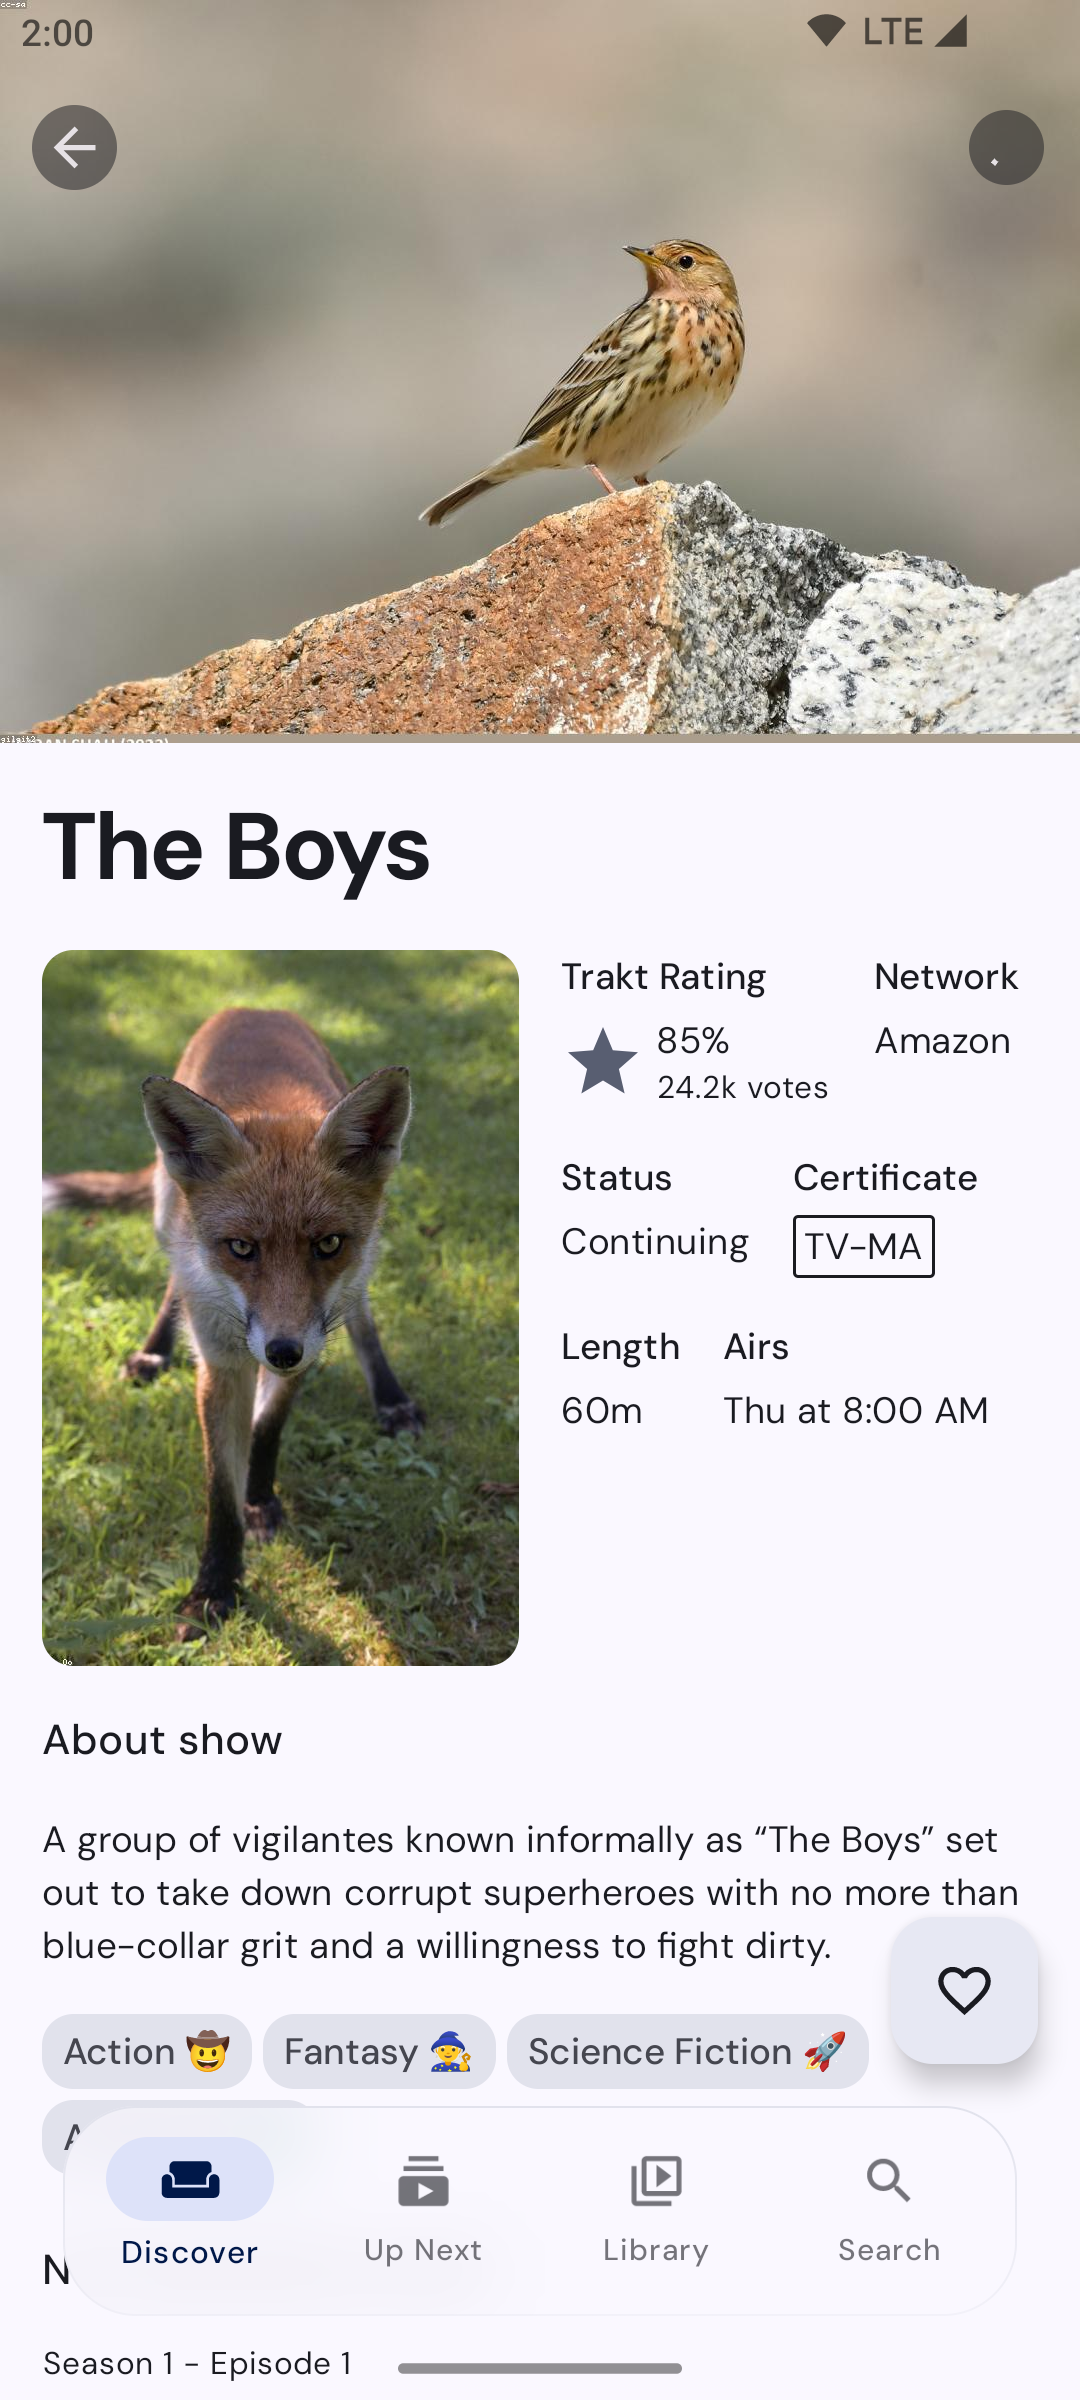
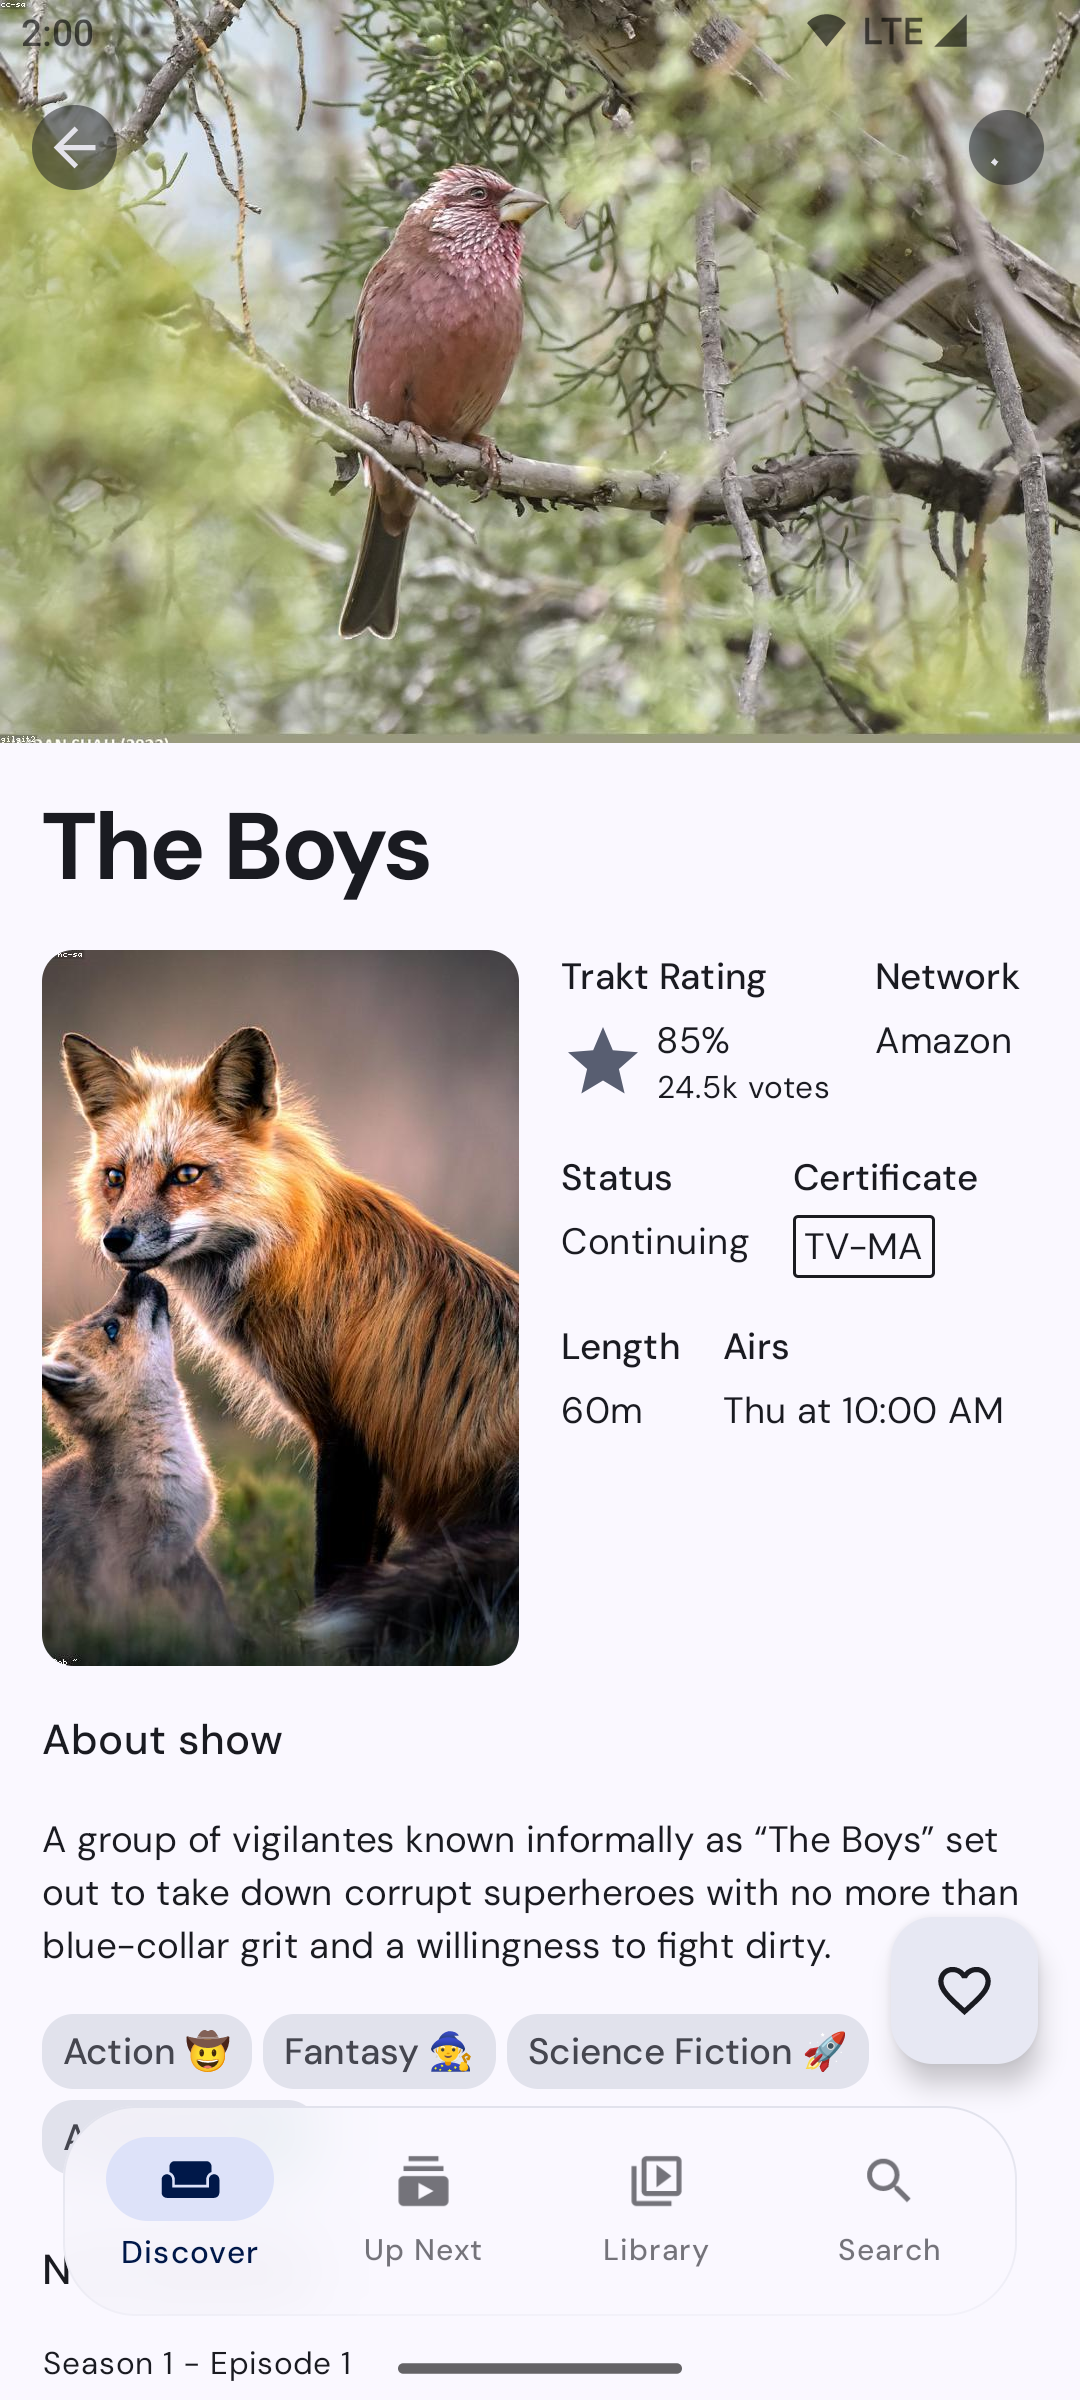
Update screenshots

diff --git a/fastlane/screenshots/screenshots.html b/fastlane/screenshots/screenshots.html
@@ -101,33 +101,55 @@
       <table>
         <tr>
           <th colspan="5">
+            <a id="en-US-iPhone 15 Pro Max" class="deviceName" href="#en-US-iPhone 15 Pro Max">iPhone 15 Pro Max</a>
+          </th>
+        </tr>
+        <tr>
+          <td>
+            <a href="./en-US/iPhone 15 Pro Max-1_Home.png" target="_blank" class="screenshotLink">
+              <img class="screenshot" src="./en-US/iPhone 15 Pro Max-1_Home.png" style="width: 100%;" alt="en-US iPhone 15 Pro Max" data-tab="1" data-counter="1">
+            </a>
+          </td>
+          <td>
+            <a href="./en-US/iPhone 15 Pro Max-2_ShowDetails.png" target="_blank" class="screenshotLink">
+              <img class="screenshot" src="./en-US/iPhone 15 Pro Max-2_ShowDetails.png" style="width: 100%;" alt="en-US iPhone 15 Pro Max" data-tab="1" data-counter="2">
+            </a>
+          </td>
+          <td>
+            <a href="./en-US/iPhone 15 Pro Max-3_UpNext.png" target="_blank" class="screenshotLink">
+              <img class="screenshot" src="./en-US/iPhone 15 Pro Max-3_UpNext.png" style="width: 100%;" alt="en-US iPhone 15 Pro Max" data-tab="1" data-counter="3">
+            </a>
+          </td>
+          <td>
+            <a href="./en-US/iPhone 15 Pro Max-4_Library.png" target="_blank" class="screenshotLink">
+              <img class="screenshot" src="./en-US/iPhone 15 Pro Max-4_Library.png" style="width: 100%;" alt="en-US iPhone 15 Pro Max" data-tab="1" data-counter="4">
+            </a>
+          </td>
+          <td>
+            <a href="./en-US/iPhone 15 Pro Max-5_Search.png" target="_blank" class="screenshotLink">
+              <img class="screenshot" src="./en-US/iPhone 15 Pro Max-5_Search.png" style="width: 100%;" alt="en-US iPhone 15 Pro Max" data-tab="1" data-counter="5">
+            </a>
+          </td>
+        </tr>
+        <tr>
+          <th colspan="3">
             <a id="en-US-iPhone 15 Pro" class="deviceName" href="#en-US-iPhone 15 Pro">iPhone 15 Pro</a>
           </th>
         </tr>
         <tr>
           <td>
             <a href="./en-US/iPhone 15 Pro-1_Home.png" target="_blank" class="screenshotLink">
-              <img class="screenshot" src="./en-US/iPhone 15 Pro-1_Home.png" style="width: 100%;" alt="en-US iPhone 15 Pro" data-tab="1" data-counter="1">
+              <img class="screenshot" src="./en-US/iPhone 15 Pro-1_Home.png" style="width: 100%;" alt="en-US iPhone 15 Pro" data-tab="1" data-counter="6">
             </a>
           </td>
           <td>
             <a href="./en-US/iPhone 15 Pro-2_ShowDetails.png" target="_blank" class="screenshotLink">
-              <img class="screenshot" src="./en-US/iPhone 15 Pro-2_ShowDetails.png" style="width: 100%;" alt="en-US iPhone 15 Pro" data-tab="1" data-counter="2">
+              <img class="screenshot" src="./en-US/iPhone 15 Pro-2_ShowDetails.png" style="width: 100%;" alt="en-US iPhone 15 Pro" data-tab="1" data-counter="7">
             </a>
           </td>
           <td>
             <a href="./en-US/iPhone 15 Pro-3_UpNext.png" target="_blank" class="screenshotLink">
-              <img class="screenshot" src="./en-US/iPhone 15 Pro-3_UpNext.png" style="width: 100%;" alt="en-US iPhone 15 Pro" data-tab="1" data-counter="3">
-            </a>
-          </td>
-          <td>
-            <a href="./en-US/iPhone 15 Pro-4_Library.png" target="_blank" class="screenshotLink">
-              <img class="screenshot" src="./en-US/iPhone 15 Pro-4_Library.png" style="width: 100%;" alt="en-US iPhone 15 Pro" data-tab="1" data-counter="4">
-            </a>
-          </td>
-          <td>
-            <a href="./en-US/iPhone 15 Pro-5_Search.png" target="_blank" class="screenshotLink">
-              <img class="screenshot" src="./en-US/iPhone 15 Pro-5_Search.png" style="width: 100%;" alt="en-US iPhone 15 Pro" data-tab="1" data-counter="5">
+              <img class="screenshot" src="./en-US/iPhone 15 Pro-3_UpNext.png" style="width: 100%;" alt="en-US iPhone 15 Pro" data-tab="1" data-counter="8">
             </a>
           </td>
         </tr>
@@ -139,13 +161,26 @@
       <table>
         <tr>
           <th colspan="1">
+            <a id="1_Home-iPhone 15 Pro Max" class="deviceName" href="#1_Home-iPhone 15 Pro Max">iPhone 15 Pro Max</a>
+          </th>
+        </tr>
+        <tr>
+          <td>
+            <a href="./en-US/iPhone 15 Pro Max-1_Home.png" target="_blank" class="screenshotLink">
+              <img class="screenshot" src="./en-US/iPhone 15 Pro Max-1_Home.png" style="width: 100%;" alt="en-US iPhone 15 Pro Max" data-tab="2" data-counter="1">
+            </a>
+            <div class="caption">en-US</div>
+          </td>
+        </tr>
+        <tr>
+          <th colspan="1">
             <a id="1_Home-iPhone 15 Pro" class="deviceName" href="#1_Home-iPhone 15 Pro">iPhone 15 Pro</a>
           </th>
         </tr>
         <tr>
           <td>
             <a href="./en-US/iPhone 15 Pro-1_Home.png" target="_blank" class="screenshotLink">
-              <img class="screenshot" src="./en-US/iPhone 15 Pro-1_Home.png" style="width: 100%;" alt="en-US iPhone 15 Pro" data-tab="2" data-counter="1">
+              <img class="screenshot" src="./en-US/iPhone 15 Pro-1_Home.png" style="width: 100%;" alt="en-US iPhone 15 Pro" data-tab="2" data-counter="2">
             </a>
             <div class="caption">en-US</div>
           </td>
@@ -156,13 +191,26 @@
       <table>
         <tr>
           <th colspan="1">
+            <a id="2_ShowDetails-iPhone 15 Pro Max" class="deviceName" href="#2_ShowDetails-iPhone 15 Pro Max">iPhone 15 Pro Max</a>
+          </th>
+        </tr>
+        <tr>
+          <td>
+            <a href="./en-US/iPhone 15 Pro Max-2_ShowDetails.png" target="_blank" class="screenshotLink">
+              <img class="screenshot" src="./en-US/iPhone 15 Pro Max-2_ShowDetails.png" style="width: 100%;" alt="en-US iPhone 15 Pro Max" data-tab="2" data-counter="3">
+            </a>
+            <div class="caption">en-US</div>
+          </td>
+        </tr>
+        <tr>
+          <th colspan="1">
             <a id="2_ShowDetails-iPhone 15 Pro" class="deviceName" href="#2_ShowDetails-iPhone 15 Pro">iPhone 15 Pro</a>
           </th>
         </tr>
         <tr>
           <td>
             <a href="./en-US/iPhone 15 Pro-2_ShowDetails.png" target="_blank" class="screenshotLink">
-              <img class="screenshot" src="./en-US/iPhone 15 Pro-2_ShowDetails.png" style="width: 100%;" alt="en-US iPhone 15 Pro" data-tab="2" data-counter="2">
+              <img class="screenshot" src="./en-US/iPhone 15 Pro-2_ShowDetails.png" style="width: 100%;" alt="en-US iPhone 15 Pro" data-tab="2" data-counter="4">
             </a>
             <div class="caption">en-US</div>
           </td>
@@ -173,13 +221,26 @@
       <table>
         <tr>
           <th colspan="1">
+            <a id="3_UpNext-iPhone 15 Pro Max" class="deviceName" href="#3_UpNext-iPhone 15 Pro Max">iPhone 15 Pro Max</a>
+          </th>
+        </tr>
+        <tr>
+          <td>
+            <a href="./en-US/iPhone 15 Pro Max-3_UpNext.png" target="_blank" class="screenshotLink">
+              <img class="screenshot" src="./en-US/iPhone 15 Pro Max-3_UpNext.png" style="width: 100%;" alt="en-US iPhone 15 Pro Max" data-tab="2" data-counter="5">
+            </a>
+            <div class="caption">en-US</div>
+          </td>
+        </tr>
+        <tr>
+          <th colspan="1">
             <a id="3_UpNext-iPhone 15 Pro" class="deviceName" href="#3_UpNext-iPhone 15 Pro">iPhone 15 Pro</a>
           </th>
         </tr>
         <tr>
           <td>
             <a href="./en-US/iPhone 15 Pro-3_UpNext.png" target="_blank" class="screenshotLink">
-              <img class="screenshot" src="./en-US/iPhone 15 Pro-3_UpNext.png" style="width: 100%;" alt="en-US iPhone 15 Pro" data-tab="2" data-counter="3">
+              <img class="screenshot" src="./en-US/iPhone 15 Pro-3_UpNext.png" style="width: 100%;" alt="en-US iPhone 15 Pro" data-tab="2" data-counter="6">
             </a>
             <div class="caption">en-US</div>
           </td>
@@ -190,13 +251,13 @@
       <table>
         <tr>
           <th colspan="1">
-            <a id="4_Library-iPhone 15 Pro" class="deviceName" href="#4_Library-iPhone 15 Pro">iPhone 15 Pro</a>
+            <a id="4_Library-iPhone 15 Pro Max" class="deviceName" href="#4_Library-iPhone 15 Pro Max">iPhone 15 Pro Max</a>
           </th>
         </tr>
         <tr>
           <td>
-            <a href="./en-US/iPhone 15 Pro-4_Library.png" target="_blank" class="screenshotLink">
-              <img class="screenshot" src="./en-US/iPhone 15 Pro-4_Library.png" style="width: 100%;" alt="en-US iPhone 15 Pro" data-tab="2" data-counter="4">
+            <a href="./en-US/iPhone 15 Pro Max-4_Library.png" target="_blank" class="screenshotLink">
+              <img class="screenshot" src="./en-US/iPhone 15 Pro Max-4_Library.png" style="width: 100%;" alt="en-US iPhone 15 Pro Max" data-tab="2" data-counter="7">
             </a>
             <div class="caption">en-US</div>
           </td>
@@ -207,13 +268,13 @@
       <table>
         <tr>
           <th colspan="1">
-            <a id="5_Search-iPhone 15 Pro" class="deviceName" href="#5_Search-iPhone 15 Pro">iPhone 15 Pro</a>
+            <a id="5_Search-iPhone 15 Pro Max" class="deviceName" href="#5_Search-iPhone 15 Pro Max">iPhone 15 Pro Max</a>
           </th>
         </tr>
         <tr>
           <td>
-            <a href="./en-US/iPhone 15 Pro-5_Search.png" target="_blank" class="screenshotLink">
-              <img class="screenshot" src="./en-US/iPhone 15 Pro-5_Search.png" style="width: 100%;" alt="en-US iPhone 15 Pro" data-tab="2" data-counter="5">
+            <a href="./en-US/iPhone 15 Pro Max-5_Search.png" target="_blank" class="screenshotLink">
+              <img class="screenshot" src="./en-US/iPhone 15 Pro Max-5_Search.png" style="width: 100%;" alt="en-US iPhone 15 Pro Max" data-tab="2" data-counter="8">
             </a>
             <div class="caption">en-US</div>
           </td>

diff --git a/android-app/app/src/androidTest/kotlin/app/tivi/screenshots/Screenshots.kt b/android-app/app/src/androidTest/kotlin/app/tivi/screenshots/Screenshots.kt
@@ -3,6 +3,7 @@
 
 package app.tivi.screenshots
 
+import android.os.SystemClock
 import androidx.test.platform.app.InstrumentationRegistry
 import androidx.test.uiautomator.UiDevice
 import app.tivi.app.test.navigateFromDiscoverToShowDetails
@@ -10,12 +11,9 @@ import app.tivi.app.test.navigateToLibrary
 import app.tivi.app.test.navigateToSearch
 import app.tivi.app.test.navigateToUpNext
 import app.tivi.test.smoke.startAppAndWait
-import org.junit.After
-import org.junit.Before
 import org.junit.Rule
 import org.junit.Test
 import tools.fastlane.screengrab.Screengrab
-import tools.fastlane.screengrab.cleanstatusbar.CleanStatusBar
 import tools.fastlane.screengrab.locale.LocaleTestRule
 
 class Screenshots {
@@ -23,33 +21,28 @@ class Screenshots {
   @JvmField
   val localeTestRule = LocaleTestRule()
 
-  @Before
-  fun before() {
-    CleanStatusBar.enableWithDefaults()
-  }
-
-  @After
-  fun after() {
-    CleanStatusBar.disable()
-  }
-
   @Test
   fun screenshots() {
     val device = UiDevice.getInstance(InstrumentationRegistry.getInstrumentation())
     startAppAndWait(device)
 
+    SystemClock.sleep(3_000)
     Screengrab.screenshot("0_home")
 
     device.navigateFromDiscoverToShowDetails()
+    SystemClock.sleep(1_000)
     Screengrab.screenshot("1_show_details")
 
     device.navigateToUpNext()
+    SystemClock.sleep(1_000)
     Screengrab.screenshot("2_upnext")
 
     device.navigateToLibrary()
+    SystemClock.sleep(1_000)
     Screengrab.screenshot("3_library")
 
     device.navigateToSearch()
+    SystemClock.sleep(1_000)
     Screengrab.screenshot("4_search")
   }
 }

diff --git a/ios-app/Tivi/UITests/Screenshots.swift b/ios-app/Tivi/UITests/Screenshots.swift
@@ -7,29 +7,36 @@
 
 import XCTest
 
-@MainActor
-static class ScreenshotsTests: XCTestCase {
+class ScreenshotsTests: XCTestCase {
 
+    @MainActor
     override class func setUp() {
         let app = XCUIApplication()
         setupSnapshot(app)
         app.launch()
     }
 
+    @MainActor
     func testScreenshots() throws {
         let app = XCUIApplication()
+
+        Thread.sleep(forTimeInterval: 4)
         snapshot("1_Home")
 
         app.navigateFromDiscoverToShowDetails()
+        Thread.sleep(forTimeInterval: 1)
         snapshot("2_ShowDetails")
 
         app.navigateToUpNext()
+        Thread.sleep(forTimeInterval: 1)
         snapshot("3_UpNext")
 
         app.navigateToLibrary()
+        Thread.sleep(forTimeInterval: 1)
         snapshot("4_Library")
 
         app.navigateToSearch()
+        Thread.sleep(forTimeInterval: 1)
         snapshot("5_Search")
     }
 
